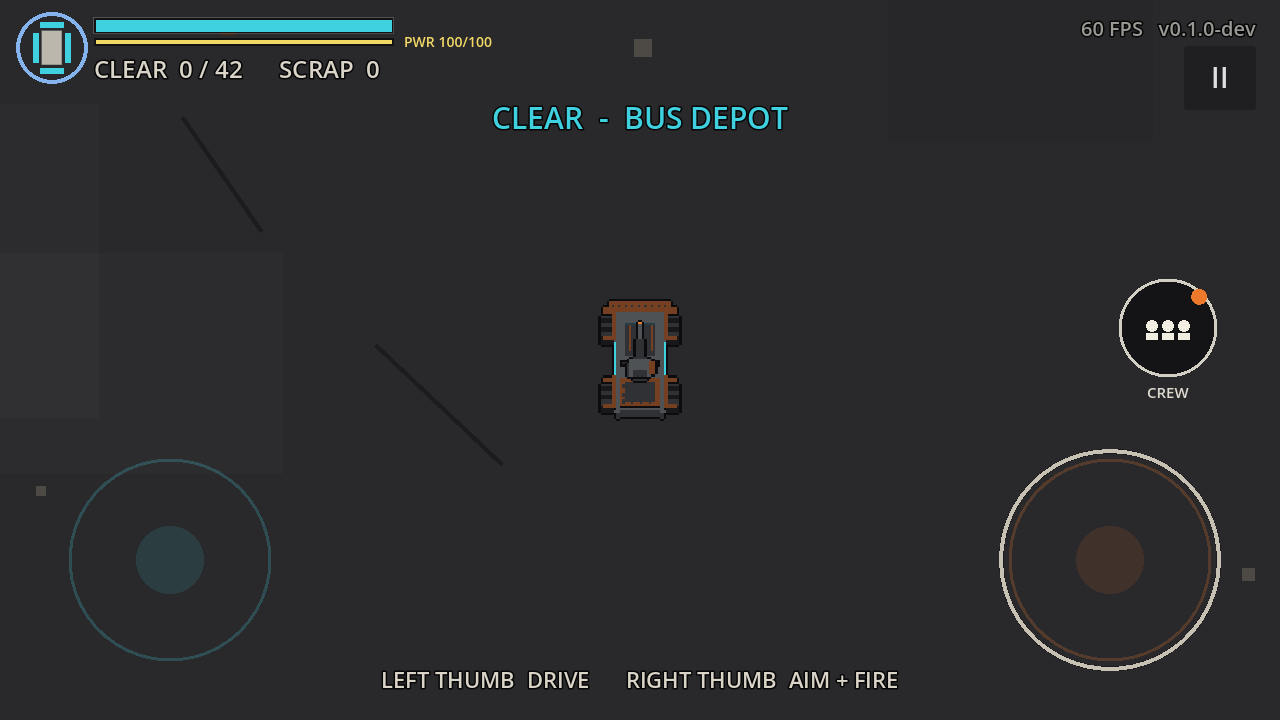
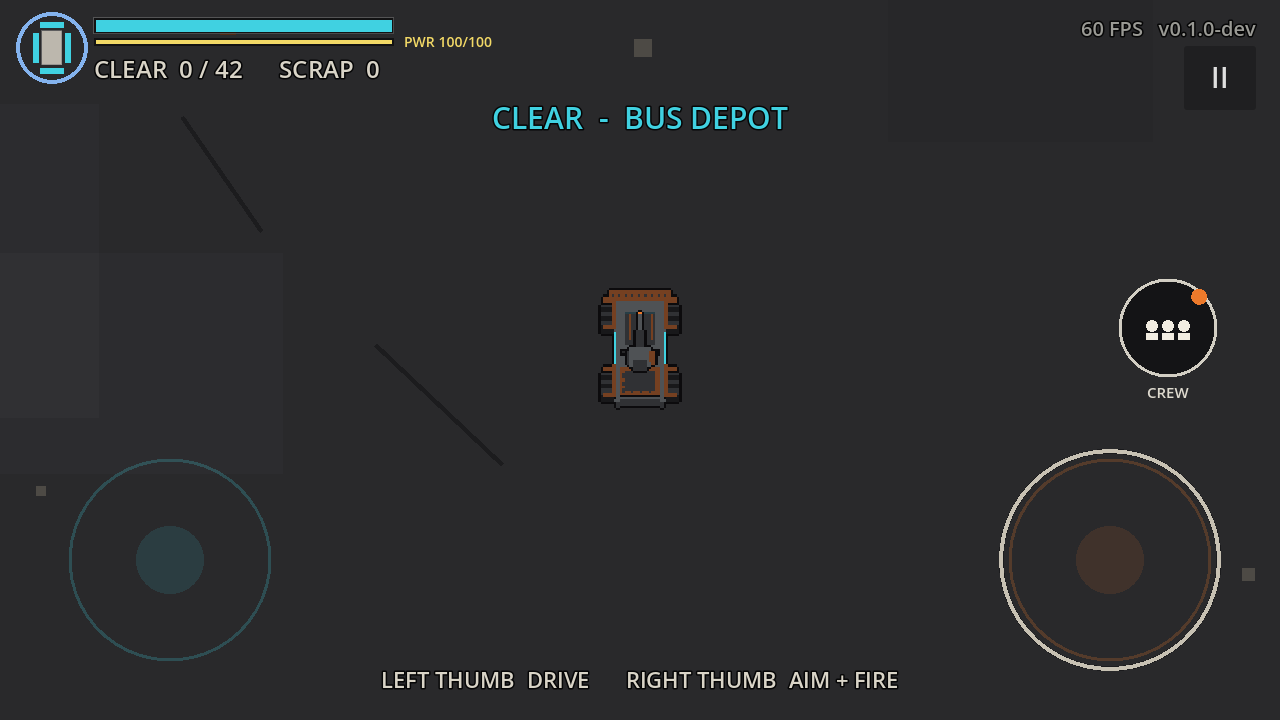
Art: fix stale overlay draws, showcase capture (two-turret Bulwark, wreck mid-flight), docs

Changed region(s): [[0.4688, 0.3972, 0.5312, 0.5806]]

diff --git a/docs/ART_PIPELINE.md b/docs/ART_PIPELINE.md
@@ -50,13 +50,30 @@ godot --headless --path . -s res://tests/art_sheet_test.gd
 | Outrider chunks (4x) | ![](../art/previews/outrider_chunks_x4.png) |
 | Pintle turret (3x) | ![](../art/previews/pintle_turret_x3.png) |
 
+## In game
+- **Anchor:** each frame's centre is the footprint centre at ground level, which is the rig's collision centre. Every sheet's JSON has a `ground_centre` point that projects to (0, 0) at all headings.
+- **Points:** `points.<name>` gives 32 pixel offsets, one per heading.
+  - Hulls: `turret_mount` (one weapon), or `mount_a` and `mount_b` (two weapons, Bulwark Frame).
+  - Turret: `pivot` and `muzzle`.
+- **Hulls:** `vehicle.gd` draws the Scrap Frame and Bulwark Frame from their sheets, and `enemy_rig.gd` draws the plain Outrider. Every other rig keeps the code-drawn look.
+- **Turrets:** each turret sheet picks its frame from its own aim and sits on its mount. Bullets still start from the unchanged gameplay pivot.
+- **Wreck:** every chunk except the chassis is flung outward from its offset for this heading. Each piece spins and fades over 1.4 s. The hull switches to the darkened chassis sheet, and fire, dust and the crew-haul flow are unchanged. A revive restores the full sheet.
+- **Part marks:** `art_marks()` reads the equipped parts and draws small overlays on the deck for:
+  - drive: half-track, off-road tires, sport wheels
+  - front armor: anything other than Scrap Plating
+  - nose guns, white-hot while Overcharge or Deadeye is active
+  - patch kit, mine rack, sensor dish, roll cage
+- **Overcharge on turrets:** turret art shows a white-hot glow at its `muzzle` point.
+- **Captures:** `tools/art/capture_mission.gd` and `tools/art/capture_showcase.gd` take screenshots under Xvfb.
+
 ## Decided (Cameron, 2026-11-03)
 30 degree tilt; 32 headings; tuning.gd colours with 3 shades; 1 px per voxel with
 finer models at ~64x36 on screen; near-black outline all round; separate chunk sheets
 for the wreck.
 
 ## Open
-- Not wired into `vehicle.gd` yet (it still draws rigs with `draw_rect`).
+- Part marks are flat 2D overlays, not voxel sheets, so they don't follow the tilt exactly.
+- No art yet for the Courier Frame, the other enemy rigs, or weapons other than the pintle.
 - Chunks render on their own, so a chunk sheet shows faces that the composite hides
   (correct for flying debris).
 - Hull and turret pivots: the turret mount point per heading isn't in the metadata yet.
